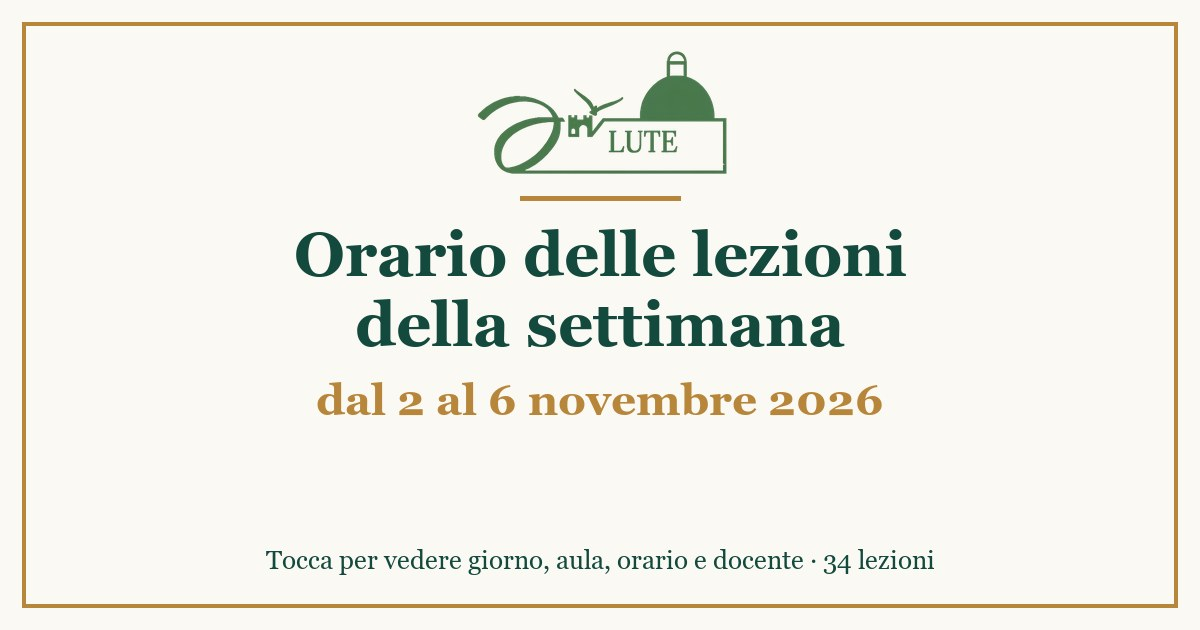
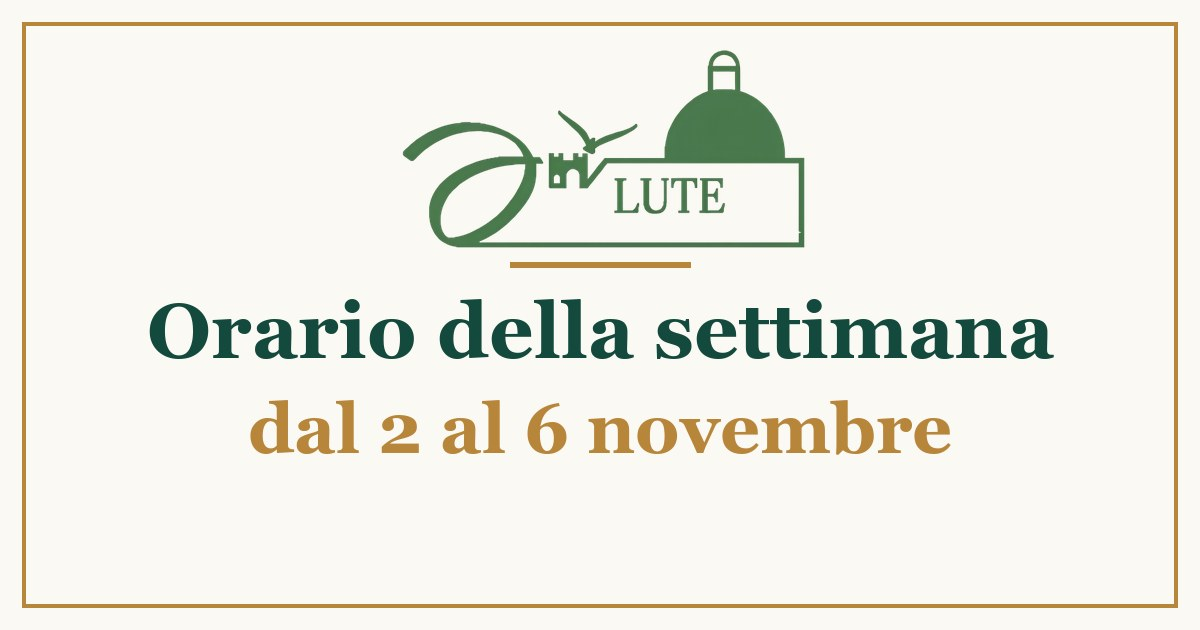
Copertina anteprima piu leggibile, testi minimi

Changed region(s): [[0.1233, 0.0603, 0.8942, 0.573], [0.185, 0.6032, 0.8017, 0.7238], [0.2158, 0.8746, 0.7708, 0.9048]]

diff --git a/index.html b/index.html
@@ -8,8 +8,8 @@
   <meta property="og:type" content="website">
   <meta property="og:locale" content="it_IT">
   <meta property="og:site_name" content="LUTE Milazzo">
-  <meta property="og:title" content="LUTE · Orario delle lezioni della settimana (dal 2 al 6 novembre 2026)">
-  <meta property="og:description" content="34 lezioni: tocca per vedere giorno, aula, orario e docente di ogni corso.">
+  <meta property="og:title" content="Orario LUTE · dal 2 al 6 novembre">
+  <meta property="og:description" content="Tocca per aprire l'orario">
   <meta property="og:image" content="https://pxh2407.github.io/orario/images/copertina-2026-11-02.jpg">
   <meta property="og:image:width" content="1200">
   <meta property="og:image:height" content="630">

diff --git a/crea_copertina_lute.py b/crea_copertina_lute.py
@@ -15,12 +15,11 @@ W, H = 1200, 630
 im = Image.new("RGB", (W, H), CREMA); dr = ImageDraw.Draw(im)
 dr.rectangle([22, 22, W - 23, H - 23], outline=ORO, width=4)
 logo = Image.open("images/logo-lute.png").convert("RGBA")
-h = int(logo.height * 260 / logo.width); l = logo.resize((260, h), Image.LANCZOS)
-im.paste(l, ((W - 260) // 2, 50), l); y = 50 + h
-dr.rectangle([W // 2 - 80, y + 22, W // 2 + 80, y + 26], fill=ORO)
+h = int(logo.height * 420 / logo.width); l = logo.resize((420, h), Image.LANCZOS)
+im.paste(l, ((W - 420) // 2, 48), l); y = 48 + h
+dr.rectangle([W // 2 - 90, y + 14, W // 2 + 90, y + 19], fill=ORO)
 def c(t, yy, f, col):
     dr.text(((W - dr.textlength(t, font=f)) / 2, yy), t, font=f, fill=col)
-c("Orario delle lezioni", y + 45, F(62), VERDE); c("della settimana", y + 115, F(62), VERDE)
-c(periodo, y + 200, F(44), ORO)
-c(f"Tocca per vedere giorno, aula, orario e docente · {n} lezioni", H - 85, FR, VERDE)
+c("Orario della settimana", y + 38, F(78), VERDE)
+c(periodo.replace(f" {b[:4]}", ""), y + 140, F(70), ORO)
 out = f"images/copertina-{a}.jpg"; im.save(out, quality=88); print(out, periodo, n)

diff --git a/CLAUDE.md b/CLAUDE.md
@@ -67,3 +67,4 @@ Online: https://pxh2407.github.io/orario/ — repo `pxh2407/orario`, branch `mai
 - 2026-10-31: pubblicata da me (con git) la settimana **2–6 novembre** dal file `Desktop\Orario dal 02-11-2026 al 06-11-2026.xlsx` (Agg. 31-10-2026), 44 lezioni. **Lunedì tutto sospeso** (riquadro "LEZIONI SOSPESE" nel foglio, senza motivo né data di ripresa → "solo questa settimana"; Burraco perde la ripresa del 2/11). Medicina Lutelisir torna regolare (mer). Nuove: Corso Uncinetto (Accetta M.G., S08 mar 17:30–18:30, cod 500), Tutto sulle erbe (Russo M., S08 gio 17:30–19:30, cod 255), Yoga Gruppo 1 (ven 15:30–16:30; l'altro diventa Yoga Gruppo 2 16:30–17:30). Cambi: Fotografia 15:30–17:30; Postura e benessere 18:30–19:30; Mosaico '900 ora in **S09**, relatore MILAZZO F., titolo con «Palmiro Togliatti»; Tarantella «LA SPADA C.». Postura resta cod 225 (270 non ha ancora immagine qui).
 - 2026-10-31: su richiesta dell'utente **tolti i colori dall'orario** nel foglio A4 (Sintesi Settimana e Foglio A4 del programma) e **rimessi i colori per aula** (`a4AulaColors` in index.html e in gestione; `FOGLIO_A4.riga(l, colore, nNota)` come prima del 2026-10-29; orario scuro semplice). `foglio-a4.js?v=3`. Annulla la voce del 2026-10-29 sui colori.
 - 2026-11-01: **anteprima del link RIMESSA** su richiesta dell'utente (annulla le voci del 2026-10-24 "niente copertina / nessuna anteprima"; il link su WhatsApp mostra la copertina). Copertina nuova in **stile LUTE** (fondo crema, logo, cornice dorata, verde #144a3d, oro #b8863b, Georgia) con "Orario delle lezioni della settimana", date e numero lezioni. `creaCopertina()` in `gestione/Gestione Orario.html` è riattivata e ridisegnata; **Pubblica** ora fa 3 passi: copertina `images/copertina-<dal>.jpg`, `dati/settimana.json`, meta (title, description, og:title/description/image, twitter:card) di `index.html`. Per la settimana 2–6 novembre fatta a mano con `crea_copertina_lute.py` (stesso disegno, Pillow). Backup prima: `Desktop\CLAUDE\BACKUP ORARIO LUTE 2026-11-01 prima dell anteprima`. Regole sempre valide: niente `og:url`, niente "<title>" in commenti, link nuovo ogni settimana (`?dal-…`). Non ancora provato il nuovo "Pubblica" dal programma (lo preme l'utente).
+- 2026-11-01 (sera): copertina **più leggibile in miniatura** (richiesta utente: nella finestra di WhatsApp Web l'immagine è minuscola): logo grande, solo «Orario della settimana» + date senza anno, niente riga in fondo. Testi ridotti al minimo: og:title «Orario LUTE · dal 2 al 6 novembre», og:description «Tocca per aprire l'orario» (WhatsApp mostra sempre titolo e dominio, non si tolgono). Aggiornati `crea_copertina_lute.py`, `creaCopertina()` e il passo 3 di Pubblica. WhatsApp ricorda l'anteprima per indirizzo: per vedere la nuova usare `?dal-2-novembre`.
